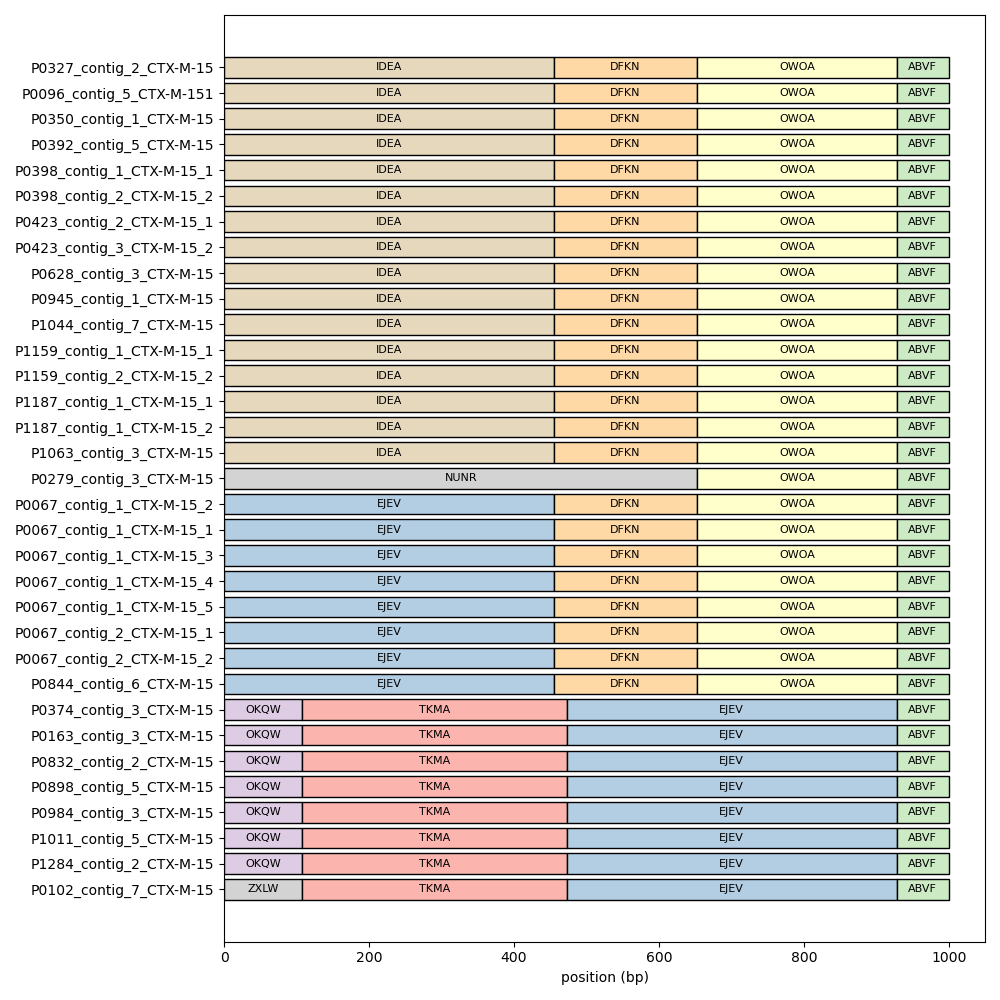
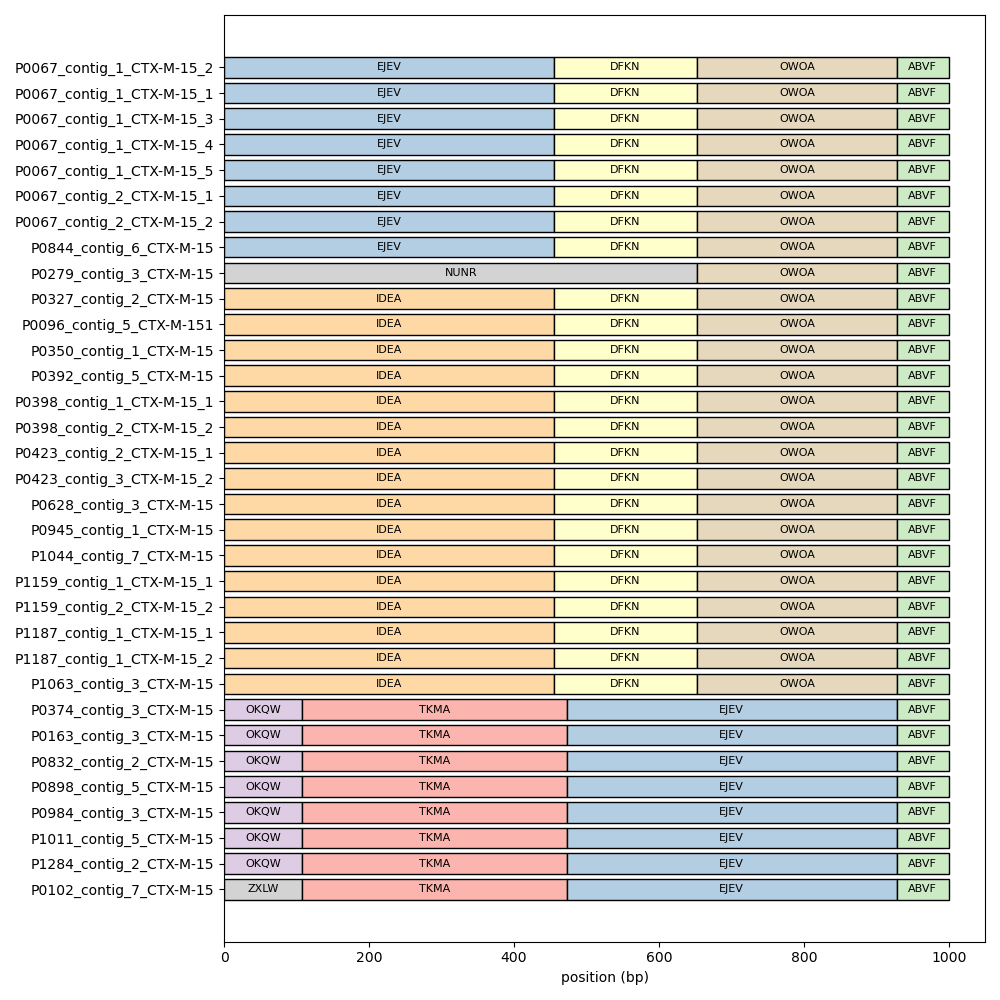
fix: squareform matrix

diff --git a/analysis.py b/analysis.py
@@ -4,9 +4,9 @@ import pypangraph as pp
 import pandas as pd
 import numpy as np
 import matplotlib.pyplot as plt
-import matplotlib as mpl
 
 from scipy.cluster.hierarchy import linkage, dendrogram
+from scipy.spatial.distance import squareform
 from collections import defaultdict
 
 # %%
@@ -29,8 +29,8 @@ D = pd.read_csv("results/mash.csv")
 D = D.pivot(index="si", columns="sj", values="mash_dist")
 
 # perform hierarchical clustering
-
-Z = linkage(D, method="ward")
+D_sq = squareform(D)
+Z = linkage(D_sq, method="ward")
 
 # plot dendrogram
 fig, ax = plt.subplots(1, 1, figsize=(10, 10))
@@ -47,13 +47,14 @@ plt.xticks(np.arange(len(str_order_inv)), str_order_inv, rotation=90)
 plt.yticks(np.arange(len(str_order_inv)), str_order_inv)
 plt.tight_layout()
 plt.savefig("figs/mash_dist_mat.png", facecolor="white")
-plt.show()
+# plt.show()
+plt.close(fig)
 
 # %%
 
 
 # draw pangraph
-cmap = iter(mpl.cm.get_cmap("Pastel1")(np.arange(len(bdf))))
+cmap = iter(plt.get_cmap("Pastel1")(np.arange(len(bdf))))
 block_color = defaultdict(lambda: next(cmap))
 singleton_blocks = bdf.index[bdf["count"] == 1].to_list()
 for block in singleton_blocks:
@@ -95,6 +96,7 @@ ax.set_yticklabels(str_order)
 ax.set_xlabel("position (bp)")
 plt.tight_layout()
 plt.savefig("figs/pangraph.png", facecolor="white")
-plt.show()
+# plt.show()
+plt.close(fig)
 
 # %%
